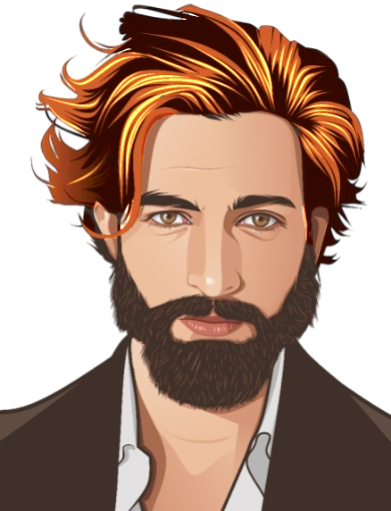
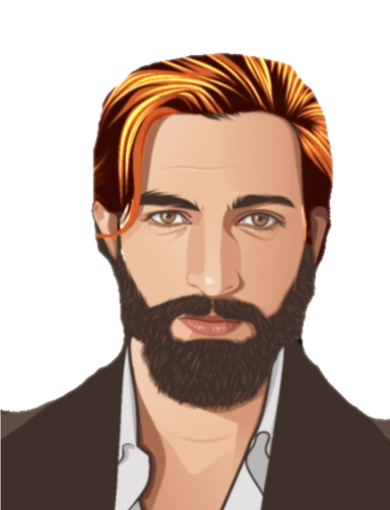
fix the problems of images of changing man services

Changed region(s): [[0.0, 0.0, 0.9538, 0.8235], [0.8, 0.7059, 1.0, 0.8235]]

diff --git a/src/components/MenServices.js b/src/components/MenServices.js
@@ -61,14 +61,25 @@ if(choosedServices.join("").includes("haircut") &&
     choosedServices.join("").includes("beard_service")  &&
     choosedServices.join("").includes("scalp_treatments")
     )
+    {classForBackground = styles.hair_coloringscalp_treatmentsbeard_service;
+}
+if(choosedServices.join("").includes("hair_coloring") &&
+    choosedServices.join("").includes("beard_service")  &&
+    choosedServices.join("").includes("scalp_treatments")
+    )
+    {classForBackground = styles.hair_coloringscalp_treatmentsbeard_service;
+}
+if(choosedServices.join("").includes("haircut") &&
+    choosedServices.join("").includes("hair_coloring") &&
+    choosedServices.join("").includes("beard_service")  &&
+    choosedServices.join("").includes("scalp_treatments")
+    )
     {classForBackground = styles.haircutbeard_servicescalp_treatments;
 }
 
 if(choosedServices.join("").includes("groom_services")){
   classForBackground = styles.groom_services;
 }
-
-
 //____________________
 
   //for changing man's face based on choosen services

diff --git a/src/styles/MenServices.module.css b/src/styles/MenServices.module.css
@@ -98,7 +98,7 @@ background: url(../assets/Men-images-services/beard.png);
     background: url(../assets/Men-images-services/scalp_treatmentsbeard_servicehaircut.png);
 }
 .hair_coloringscalp_treatmentsbeard_service{
-    background: url(../assets/Men-images-services/hair_coloringscalp_treatmentsbeard_service.png);
+    background: url(../assets/Men-images-services/hair_coloringscalp_treatments.png);
 
 }
 .imageContainer,

diff --git a/src/components/MenBarbers.js b/src/components/MenBarbers.js
@@ -1,0 +1,11 @@
+import React from 'react';
+
+const MenBarbers = () => {
+    return (
+        <div>
+            
+        </div>
+    );
+};
+
+export default MenBarbers;

diff --git a/src/services/Api.js b/src/services/Api.js
@@ -1,0 +1,1 @@
+https://api.slingacademy.com/v1/sample-data/users
